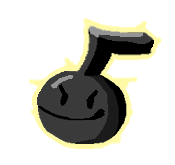
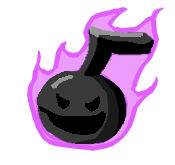
Update and organize images even MOREEE

Changed region(s): [[0.1429, 0.0303, 0.9429, 0.9394], [0.3143, 0.5152, 0.4, 0.6667]]

diff --git a/packages/game/src/images.js b/packages/game/src/images.js
@@ -1,28 +1,41 @@
-import boatUp from "./images/boat_NW.png";
-import boatDown from "./images/boat_SE.png";
-import playerNE from "./images/player_NE.png";
-import playerNW from "./images/player_NW.png";
-import playerSE from "./images/player_SE.png";
-import playerSW from "./images/player_SW.png";
+import playerNE from "./images/player/player_NE.png";
+import playerNW from "./images/player/player_NW.png";
+import playerSE from "./images/player/player_SE.png";
+import playerSW from "./images/player/player_SW.png";
+import playerDead from "./images/player/skull.png";
+
+import note from "./images/notes/note.png";
+import noteGreen from "./images/notes/note_green.png";
+import noteYellow from "./images/notes/note_yellow.png";
+import note1 from "./images/notes/note_1.png";
+import note15 from "./images/notes/note_1.5.png";
+import note2 from "./images/notes/note_2.png";
+import note25 from "./images/notes/note_2.5.png";
+import note3 from "./images/notes/note_3.png";
+import note35 from "./images/notes/note_3.5.png";
+import note4 from "./images/notes/note_4.png";
+import note45 from "./images/notes/note_4.5.png";
+
+import chord1 from "./images/chords/chord_1.png";
+import chord15 from "./images/chords/chord_1.5.png";
+import chord2 from "./images/chords/chord_2.png";
+import chord25 from "./images/chords/chord_2.5.png";
+import chord3 from "./images/chords/chord_3.png";
+import chord35 from "./images/chords/chord_3.5.png";
+import chord4 from "./images/chords/chord_4.png";
+import chord45 from "./images/chords/chord_4.5.png";
+
 import grass from "./images/grass.png";
 import road from "./images/road.png";
 import roadGrassAbove from "./images/road_grass_above.png";
 import roadGrassBelow from "./images/road_grass_below.png";
-import noteUp from "./images/note_NW.png";
-import noteDown from "./images/note_SE.png";
-import noteA from "./images/note_A.png";
-import noteB from "./images/note_B.png";
-import noteC from "./images/note_C.png";
 import water from "./images/water.png";
 import waterBeachAbove from "./images/water_beach_above.png";
 import waterBeachBelow from "./images/water_beach_below.png";
 import waterGrassAbove from "./images/water_grass_above.png";
 import waterGrassBelow from "./images/water_grass_below.png";
-import playerDead from "./images/skull.png";
 
 export {
-  boatUp,
-  boatDown,
   playerDead,
   playerNE,
   playerNW,
@@ -32,11 +45,25 @@ export {
   road,
   roadGrassAbove,
   roadGrassBelow,
-  noteUp,
-  noteDown,
-  noteA,
-  noteB,
-  noteC,
+  note,
+  noteGreen,
+  noteYellow,
+  note1,
+  note15,
+  note2,
+  note25,
+  note3,
+  note35,
+  note4,
+  note45,
+  chord1,
+  chord15,
+  chord2,
+  chord25,
+  chord3,
+  chord35,
+  chord4,
+  chord45,
   water,
   waterBeachAbove,
   waterBeachBelow,

diff --git a/packages/game/src/components/FixedObject.js b/packages/game/src/components/FixedObject.js
@@ -1,16 +1,8 @@
 import React from "react";
-import {
-  boatUp,
-  boatDown,
-  noteUp,
-  noteDown,
-  noteA,
-  noteB,
-  noteC,
-} from "../images";
+import { chord1, note, note1, note2, note3 } from "../images";
 import { WORLD_SIZE, TILE_ASPECT_RATIO } from "../constants";
 
-const randomNotes = [noteA, noteB, noteC];
+const randomNotes = [note1, note2, note3];
 
 export default function FixedObject({ x, y, type, dir }) {
   const yOffset = ((100 / WORLD_SIZE) * TILE_ASPECT_RATIO) / 1.8;
@@ -21,15 +13,15 @@ export default function FixedObject({ x, y, type, dir }) {
 
   let src;
   if (type === "boat" && dir === "up") {
-    src = boatUp;
+    src = chord1;
   } else if (type === "boat" && dir === "down") {
-    src = boatDown;
+    src = chord1;
   } else if (type === "note" && dir === "up") {
-    src = noteUp;
+    src = note;
   } else if (type === "note" && dir === "any") {
     src = randomNotes[Math.floor(Math.random() * randomNotes.length)];
   } else if (type === "note" && dir === "down") {
-    src = noteDown;
+    src = note;
   }
   return (
     <img

diff --git a/packages/game/src/components/MovingObject.js b/packages/game/src/components/MovingObject.js
@@ -1,5 +1,5 @@
 import React from "react";
-import { boatUp, boatDown, noteUp, noteDown } from "../images";
+import { chord1, note } from "../images";
 import { WORLD_SIZE, TILE_ASPECT_RATIO } from "../constants";
 
 export default function MovingObject({ x, y, type, dir }) {
@@ -11,13 +11,13 @@ export default function MovingObject({ x, y, type, dir }) {
 
   let src;
   if (type === "boat" && dir === "up") {
-    src = boatUp;
+    src = chord1;
   } else if (type === "boat" && dir === "down") {
-    src = boatDown;
+    src = chord1;
   } else if (type === "note" && dir === "up") {
-    src = noteUp;
+    src = note;
   } else if (type === "note" && dir === "down") {
-    src = noteDown;
+    src = note;
   }
   return (
     <img
